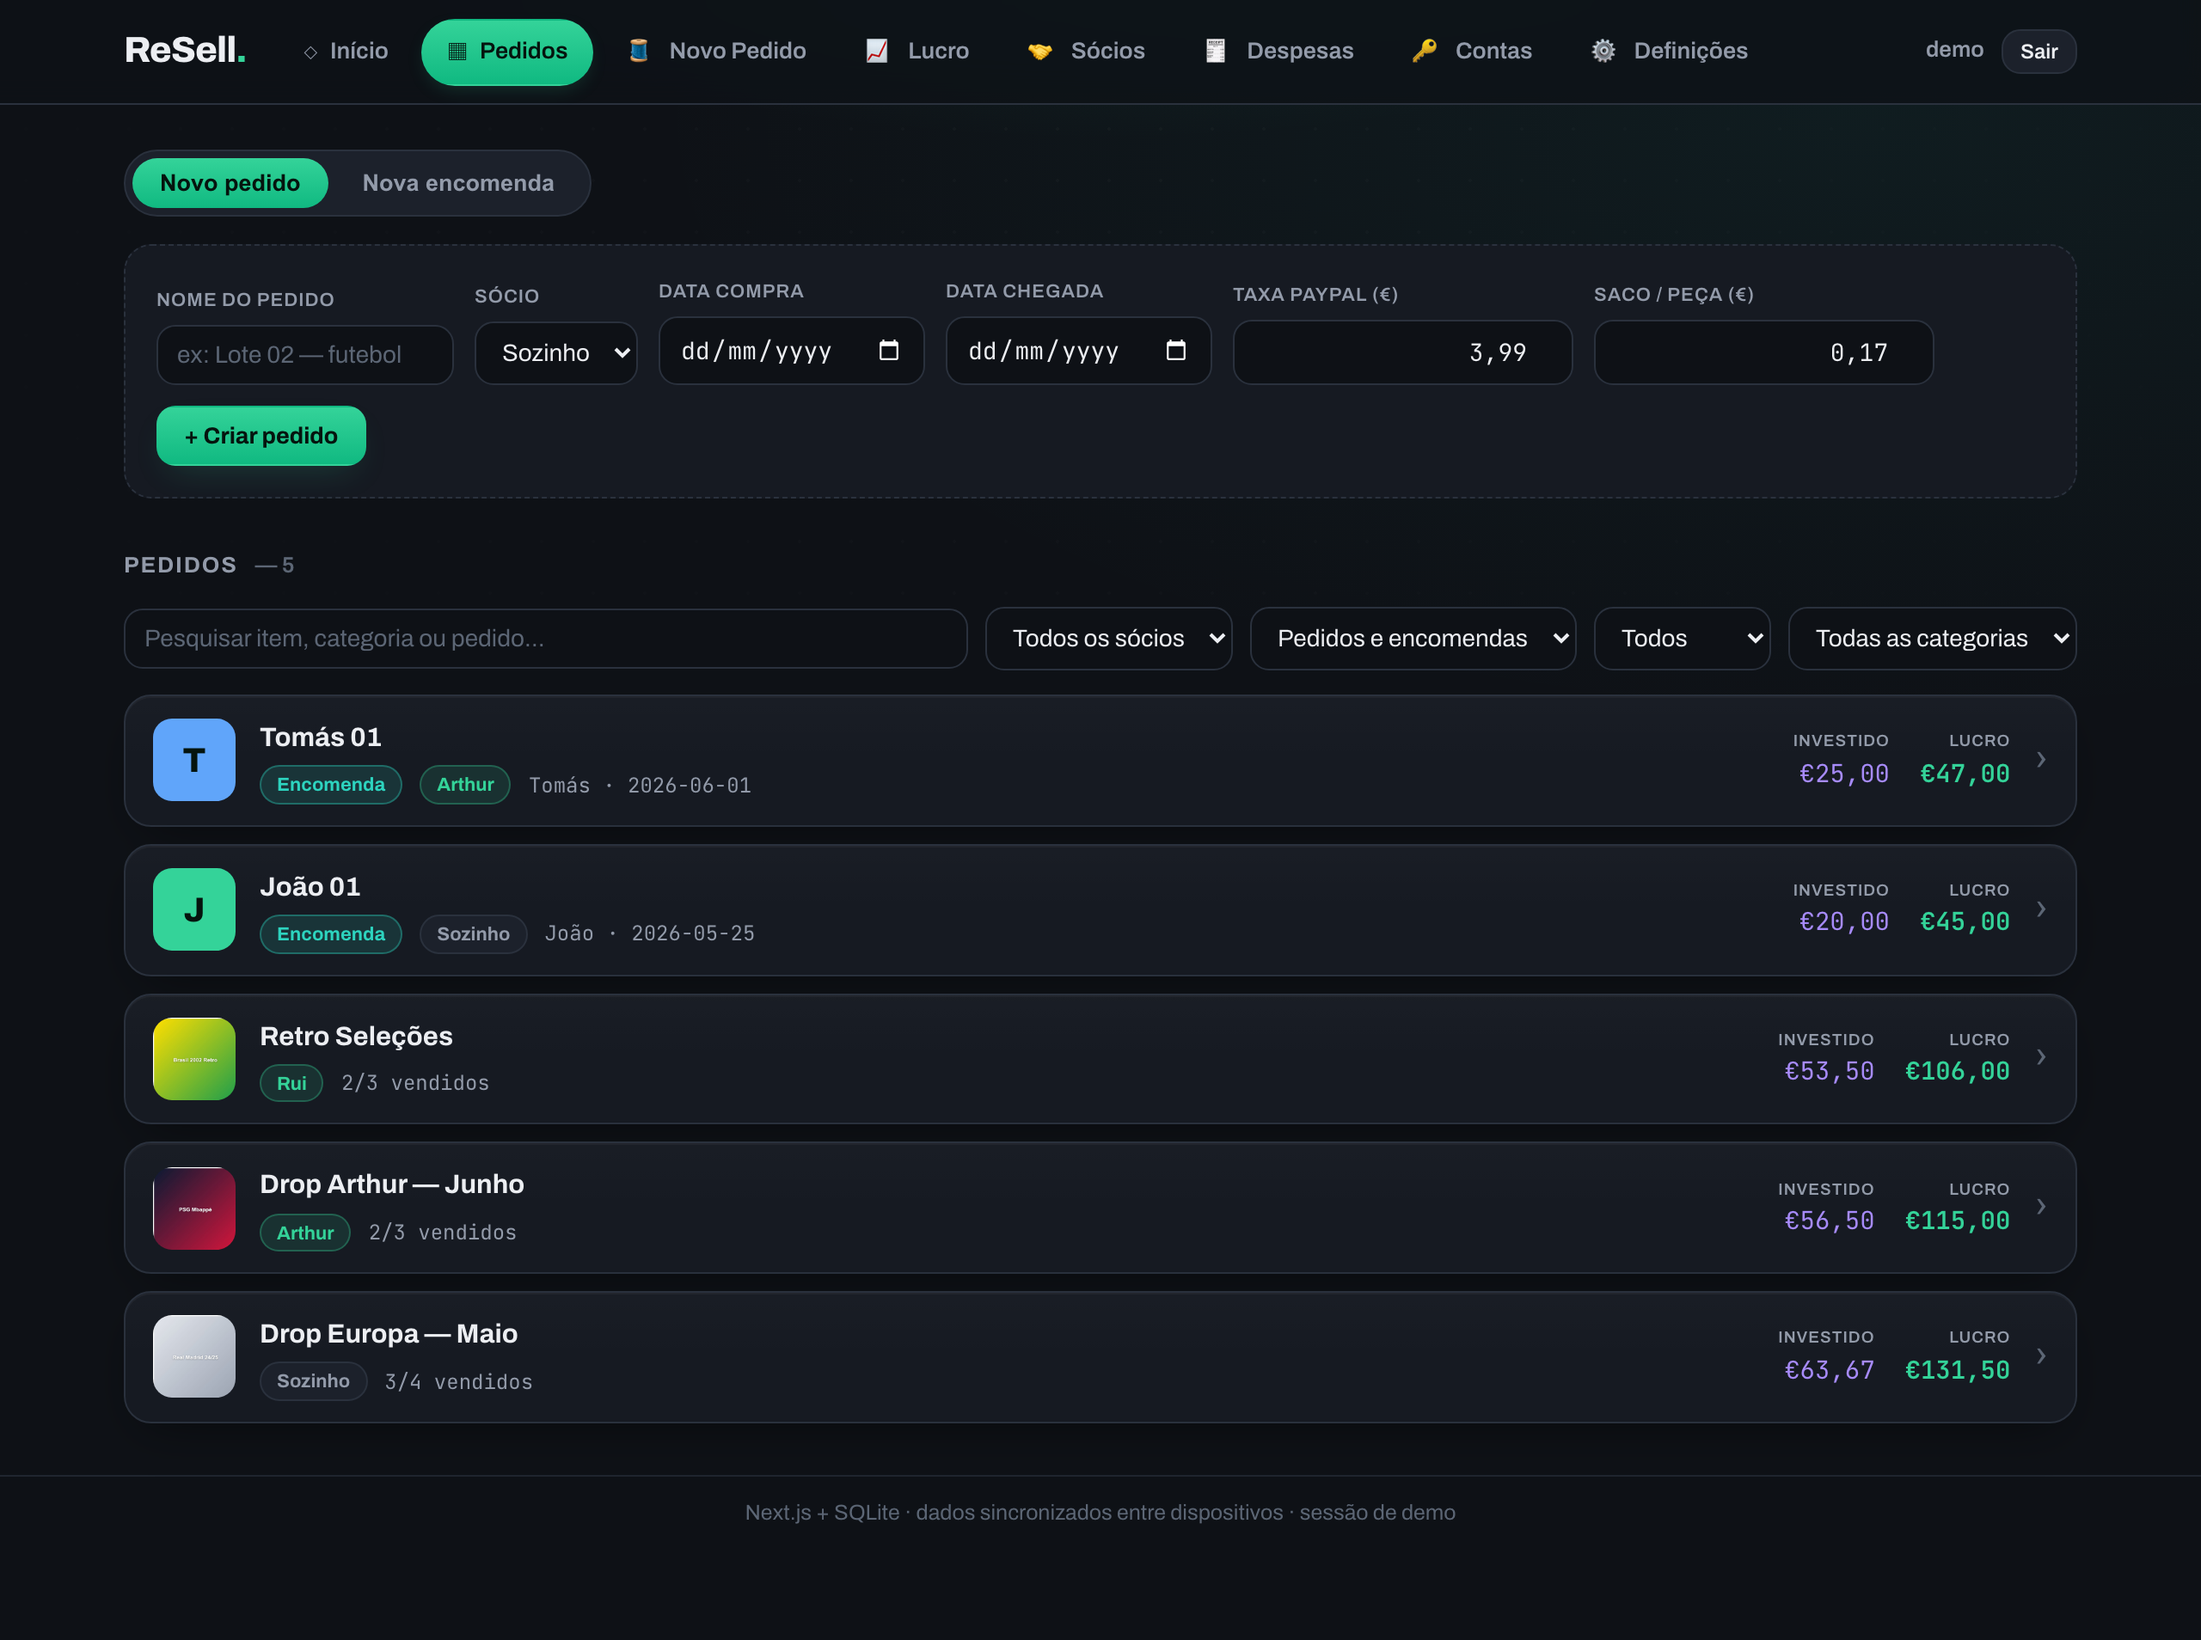
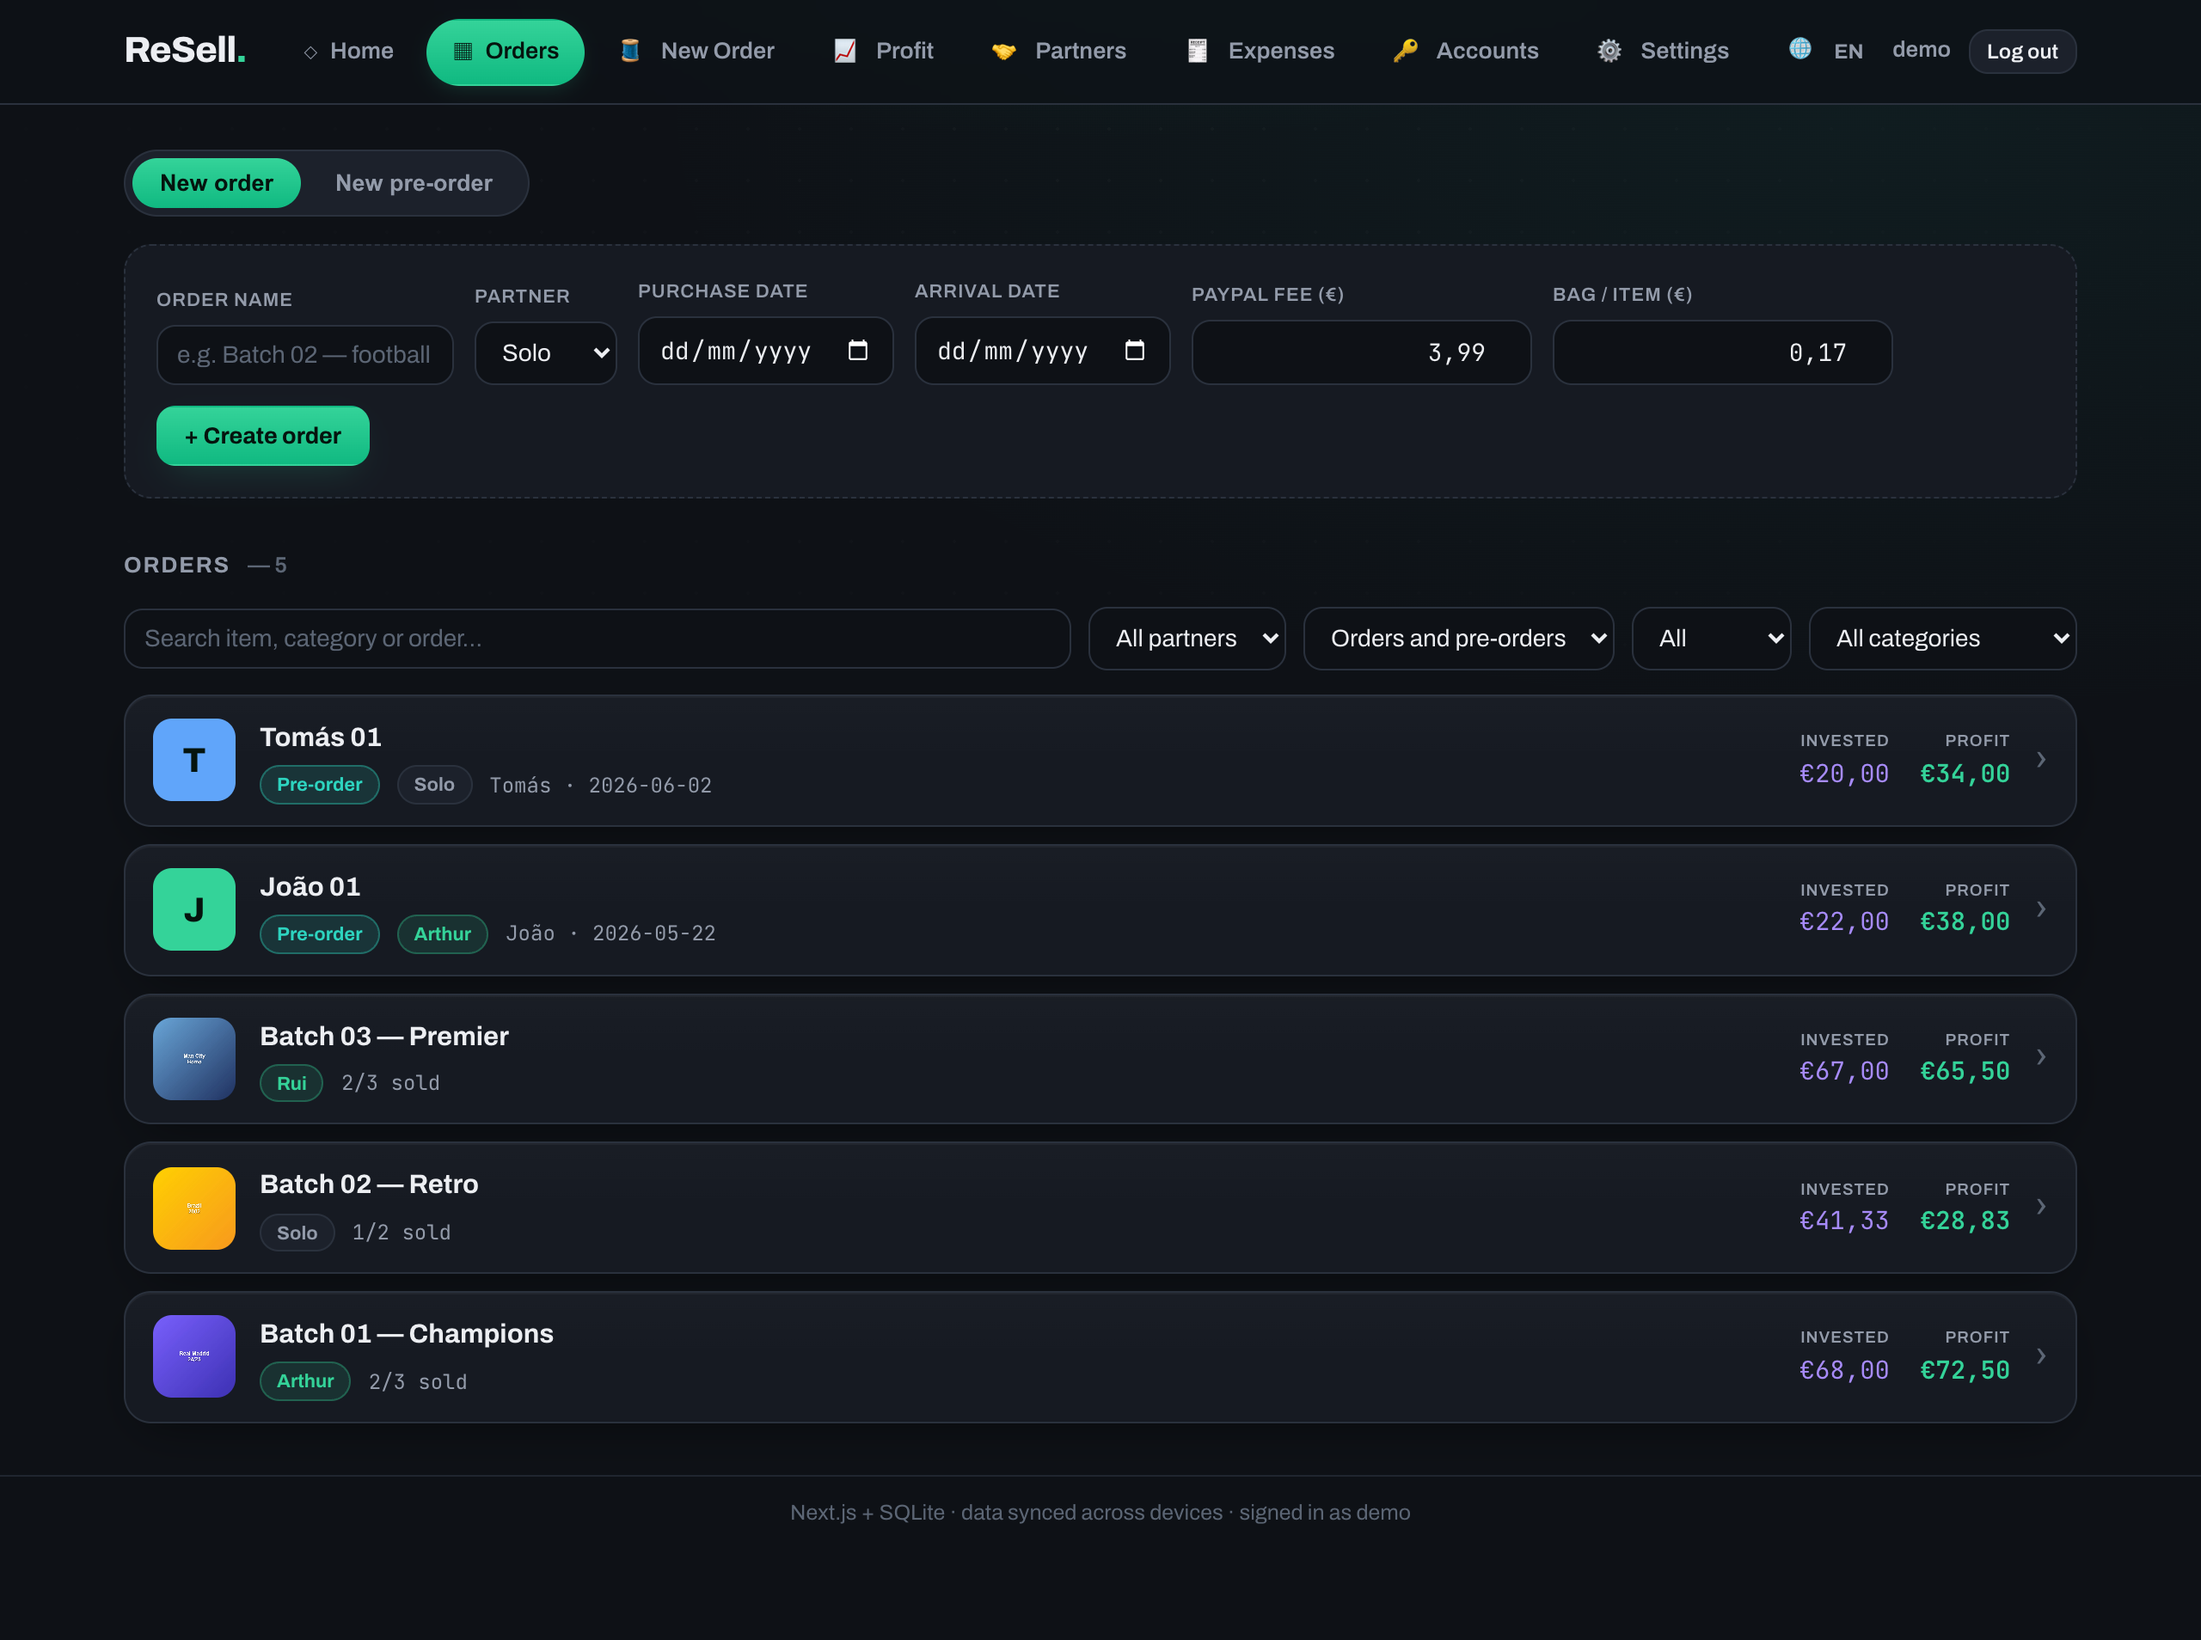
docs: refresh README screenshots in English and tidy captions

diff --git a/README.md b/README.md
@@ -10,13 +10,13 @@ It started as a static page in plain JavaScript and is now built on **Next.js + 
 
 ![Home](docs/screenshots/home.png)
 
-| Order detail | Partner settle-up (Sócios) |
+| Order detail | Partner settle-up |
 | :---: | :---: |
-| ![Order detail](docs/screenshots/order-detail.png) | ![Sócios](docs/screenshots/socios.png) |
+| ![Order detail](docs/screenshots/order-detail.png) | ![Partners](docs/screenshots/socios.png) |
 
-| Order builder (Novo Pedido) | Profit & analytics (Lucro) |
+| Order builder | Profit & analytics |
 | :---: | :---: |
-| ![Novo Pedido](docs/screenshots/novo-pedido.png) | ![Lucro](docs/screenshots/profit.png) |
+| ![New Order](docs/screenshots/novo-pedido.png) | ![Profit](docs/screenshots/profit.png) |
 
 | Orders list | On the phone |
 | :---: | :---: |
@@ -35,7 +35,7 @@ And at the business level:
 
 - Global summary: invested, unsold stock, revenue, sales profit, expenses and **real profit** (after everything)
 - **Profit per category**, with bars, **sell-through** (% already sold) and average days per category
-- **Monthly chart** — profit per month, or received vs invested per month (toggle)
+- **Monthly chart** — your profit per month, or **what you** received vs invested per month (toggle); on partner orders it counts your half, solo orders count in full
 - **Monthly report** — your profit and number of sales this month vs. the previous one (click a month card to see that month's sales)
 - **Profit per partner** — each order made with a partner splits the profit in half; solo orders are 100% yours
 
@@ -45,7 +45,7 @@ And at the business level:
 - **Partner per order** — choose who it was made with (or solo); profit splits in half automatically
 - Items with free-text category, **size** (Polo XS–XXL, football shirts S–XL), **photo** and **notes**. Photos are **downscaled in the browser** before upload (and iPhone **HEIC is converted to JPEG**, so it shows everywhere)
 - **Autofill from past items** — type an item's name and pick a previous one to copy its photo, purchase price and category (the photo is copied, not shared)
-- **Order builder** (tab **Novo Pedido**) — a draft you fill over time (each shirt with photo, name, size and **quantity** — they're all football shirts, so there's no category to pick); "Criar pedido" then creates the real order (quantity N → **N separate items**), downloads a **catalog image** (grid of photos + name/size/qty) and opens the **supplier's WhatsApp** with the text ready
+- **Order builder** (tab **New Order**) — a draft you fill over time (each shirt with photo, name, size and **quantity** — they're all football shirts, so there's no category to pick); "Create order" then creates the real order (quantity N → **N separate items**), downloads a **catalog image** (grid of photos + name/size/qty) and opens the **supplier's WhatsApp** with the text ready
 - **Patches per shirt** (optional) — some shirts have exclusive patches, so you can add a patch with a **name** and a **photo** (paste with ⌘/Ctrl+V too). They show small and discreet on the shirt, carry over to each created item, and appear on the catalog image and supplier text
 - **Pre-orders (Encomendas)** — for shirts a client orders and **pays upfront**: you store the client, the payment date, the total cost and the final price (profit is locked in). They're auto-named `<Client> NN` (a per-client counter), count as sold right away and feed every report. Tagged and filterable in the list, with their own simplified detail view.
 - **Paste a photo** (⌘/Ctrl+V) inside an order — pastes into the selected item, or creates a new item with it (and into a patch when its name field is focused); pasting over an item that already has a photo asks before replacing
@@ -137,12 +137,12 @@ The app is organized by tabs at the top, each on its own page:
 
 - **Home** (`/`) — overview: colored summary cards, "this month" vs last month (the month cards link to that month's sales at `/vendas/[mes]`), monthly profit chart and a "not selling" list.
 - **Orders** (`/pedidos`) — create a normal order **or** a pre-order (toggle), filter/search (text, partner, type, status, category) and a compact list (pre-orders are tagged). Click an order → **detail** (`/pedidos/[id]`) with items as cards, **large photos** (paste or upload, click to zoom), mark as sold and bulk category. Pre-orders open a simplified detail view.
-- **Novo Pedido** (`/novo-pedido`) — order builder: a persistent draft of shirts (photo, name, size, quantity, and optional patches with name + photo). "Criar pedido" creates the order (quantity → N items), downloads a catalog image and opens the supplier's WhatsApp with the text.
-- **Profit** (`/lucro`) — read-only profit-per-partner summary (settle up in the Sócios tab), monthly chart (profit / received vs invested), profit per category, and recent sales (filterable by partner, showing each person's share).
-- **Sócios** (`/socios`) — manage partners and **settle up per sale**: each sold item of a partner order shows the profit and the amount to send (price ÷ 2); tick it as settled and the "left to send" updates.
+- **New Order** (`/novo-pedido`) — order builder: a persistent draft of shirts (photo, name, size, quantity, and optional patches with name + photo). "Create order" makes the order (quantity → N items), downloads a catalog image and opens the supplier's WhatsApp with the text.
+- **Profit** (`/lucro`) — read-only profit-per-partner summary (settle up in the Partners tab), monthly chart (profit / received vs invested, your share), profit per category, and recent sales (filterable by partner, showing each person's share).
+- **Partners** (`/socios`) — manage partners and **settle up per sale**: each sold item of a partner order shows the profit and the amount to send (price ÷ 2); tick it as settled and the "left to send" updates. Each partner card also shows how much they invested.
 - **Expenses** (`/despesas`) — recurring or one-off expenses, solo or split with a partner.
 - **Accounts** (`/contas`) — logins and passwords per platform/partner (encrypted; loaded only on this page).
-- **Settings** (`/definicoes`) — minimum margin, stale-stock day alert, supplier WhatsApp number, **automatic backups** (list + restore), manual export/import and sign out.
+- **Settings** (`/definicoes`) — minimum margin, stale-stock day alert, supplier WhatsApp number, **language** (PT/EN/ES), **automatic backups** (list + restore), manual export/import and sign out.
 
 ## Structure
 
